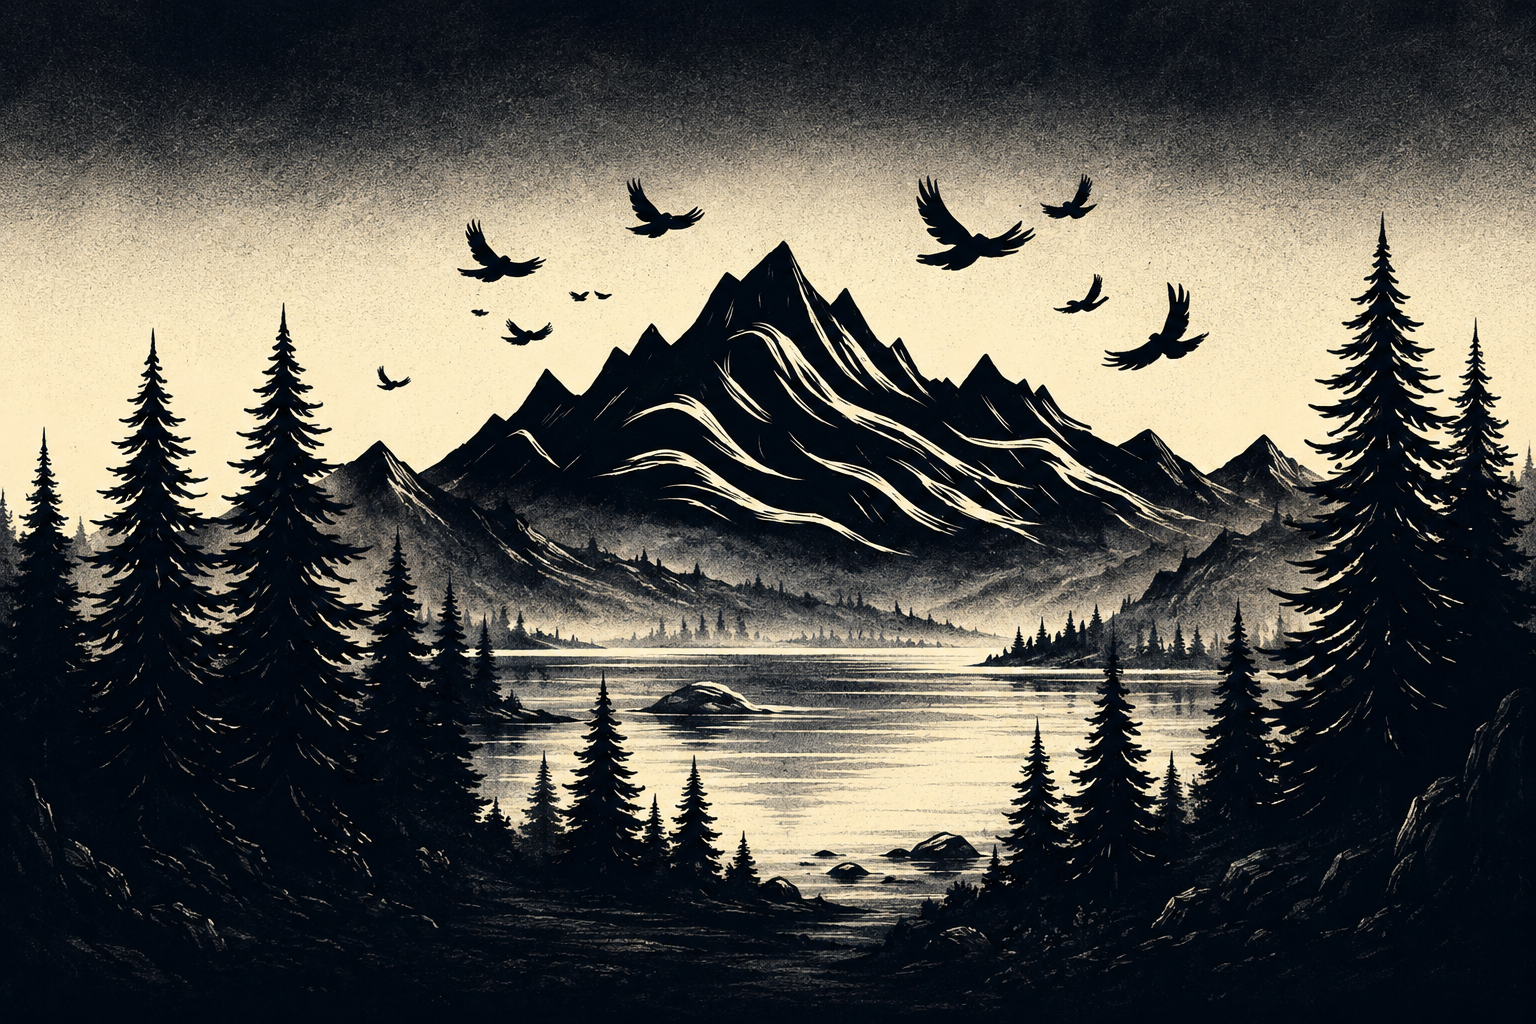
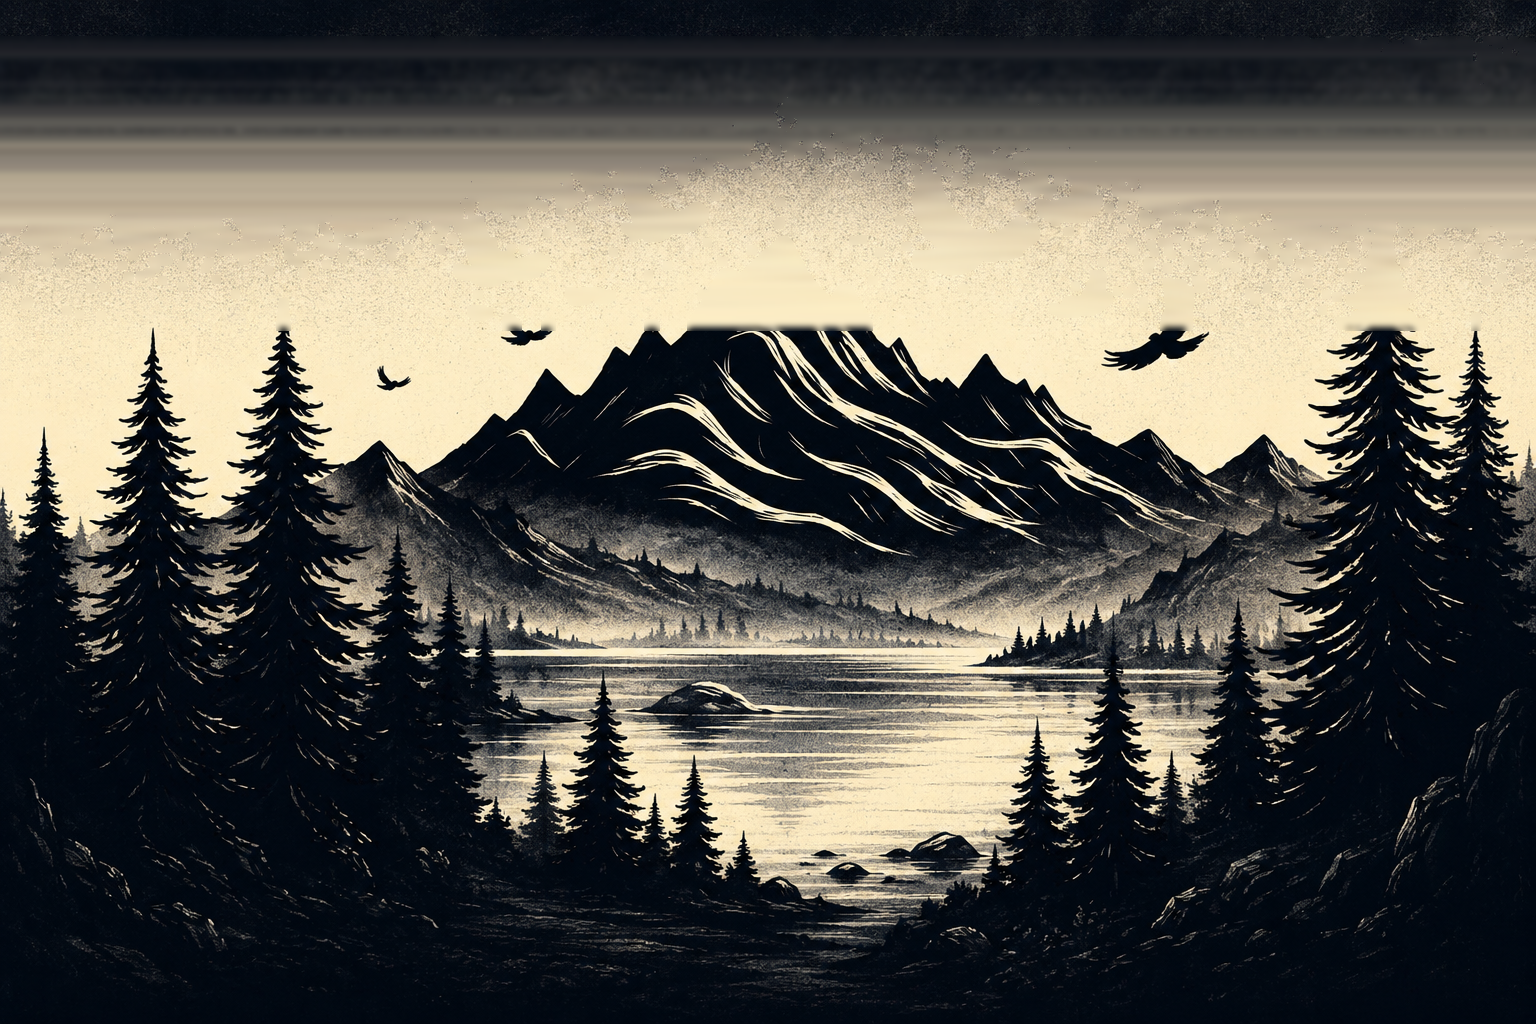
Update project files with 3D mountain artwork background, dynamic bird occlusion, and harmonized sepia cloud animations

diff --git a/product.html b/product.html
@@ -221,31 +221,15 @@
 </head>
 <body class="bg-[#07060D] text-on-surface min-h-screen flex flex-col relative selection:bg-primary-container selection:text-on-primary-container">
 
-<!-- 4.mp4 Video Background System -->
-<div class="fixed inset-0 z-0 overflow-hidden bg-[#07060D]" style="background-image: url('3.png'); background-size: cover; background-position: center;">
-  <!-- 4.mp4 Autoplay Seamless Video Background Base Layer -->
-  <video id="bg-video-product" autoplay loop muted playsinline webkit-playsinline preload="auto" poster="3.png"
-         class="absolute inset-0 w-full h-full object-cover pointer-events-none filter brightness-85 contrast-110 saturate-105 opacity-85 transition-opacity duration-700">
-    <source src="4.mp4" type="video/mp4">
-  </video>
+<!-- 3.png Fixed Mountain Artwork Background System -->
+<div class="fixed inset-0 z-0 overflow-hidden bg-[#07060D]">
+  <!-- 3.png Mountain Image Base Layer -->
+  <div class="absolute inset-0 bg-cover bg-center bg-no-repeat pointer-events-none transform scale-105" 
+       style="background-image: url('3.png'); background-attachment: fixed;"></div>
   
-  <!-- Atmospheric Vignette & Contrast Overlay -->
-  <div class="absolute inset-0 bg-gradient-to-b from-[#07060D]/50 via-[#07060D]/25 to-[#07060D]/85 pointer-events-none"></div>
-  <div class="absolute inset-0 bg-[radial-gradient(ellipse_at_center,_transparent_20%,_#07060D_85%)] opacity-60 pointer-events-none"></div>
-  <script>
-    (function() {
-      const v = document.getElementById('bg-video-product');
-      if (v) {
-        v.muted = true;
-        const p = v.play();
-        if (p !== undefined) {
-          p.catch(() => {
-            v.style.display = 'none';
-          });
-        }
-      }
-    })();
-  </script>
+  <!-- Deep Atmospheric Vignette & Contrast Overlay -->
+  <div class="absolute inset-0 bg-gradient-to-b from-[#07060D]/70 via-[#07060D]/40 to-[#07060D]/90 pointer-events-none"></div>
+  <div class="absolute inset-0 bg-[radial-gradient(ellipse_at_center,_transparent_10%,_#07060D_90%)] opacity-75 pointer-events-none"></div>
 
   <!-- LAYER 1: Behind High Mountain Peaks (Farthest Sky Depth Layer) -->
   <div class="interactive-cloud absolute top-[2%] left-0 cloud-drift-1 z-1 opacity-70">

diff --git a/index.html b/index.html
@@ -213,31 +213,15 @@
 </head>
 <body class="bg-[#07060D] text-on-surface min-h-screen flex flex-col relative selection:bg-primary-container selection:text-on-primary-container">
 
-<!-- 4.mp4 Video Background System -->
-<div class="fixed inset-0 z-0 overflow-hidden bg-[#07060D]" style="background-image: url('3.png'); background-size: cover; background-position: center;">
-  <!-- 4.mp4 Autoplay Seamless Video Background Base Layer -->
-  <video id="bg-video-main" autoplay loop muted playsinline webkit-playsinline preload="auto" poster="3.png"
-         class="absolute inset-0 w-full h-full object-cover pointer-events-none filter brightness-85 contrast-110 saturate-105 opacity-85 transition-opacity duration-700">
-    <source src="4.mp4" type="video/mp4">
-  </video>
+<!-- 3.png Fixed Mountain Artwork Background System -->
+<div class="fixed inset-0 z-0 overflow-hidden bg-[#07060D]">
+  <!-- 3.png Mountain Image Base Layer -->
+  <div class="absolute inset-0 bg-cover bg-center bg-no-repeat pointer-events-none transform scale-105" 
+       style="background-image: url('3.png'); background-attachment: fixed;"></div>
   
-  <!-- Atmospheric Vignette & Contrast Overlay -->
-  <div class="absolute inset-0 bg-gradient-to-b from-[#07060D]/50 via-[#07060D]/25 to-[#07060D]/85 pointer-events-none"></div>
-  <div class="absolute inset-0 bg-[radial-gradient(ellipse_at_center,_transparent_20%,_#07060D_85%)] opacity-60 pointer-events-none"></div>
-  <script>
-    (function() {
-      const v = document.getElementById('bg-video-main');
-      if (v) {
-        v.muted = true;
-        const p = v.play();
-        if (p !== undefined) {
-          p.catch(() => {
-            v.style.display = 'none';
-          });
-        }
-      }
-    })();
-  </script>
+  <!-- Deep Atmospheric Vignette & Contrast Overlay -->
+  <div class="absolute inset-0 bg-gradient-to-b from-[#07060D]/70 via-[#07060D]/40 to-[#07060D]/90 pointer-events-none"></div>
+  <div class="absolute inset-0 bg-[radial-gradient(ellipse_at_center,_transparent_10%,_#07060D_90%)] opacity-75 pointer-events-none"></div>
 
   <!-- LAYER 1: Behind High Mountain Peaks (Farthest Sky Depth Layer) -->
   <div class="interactive-cloud absolute top-[2%] left-0 cloud-drift-1 z-1 opacity-70">
